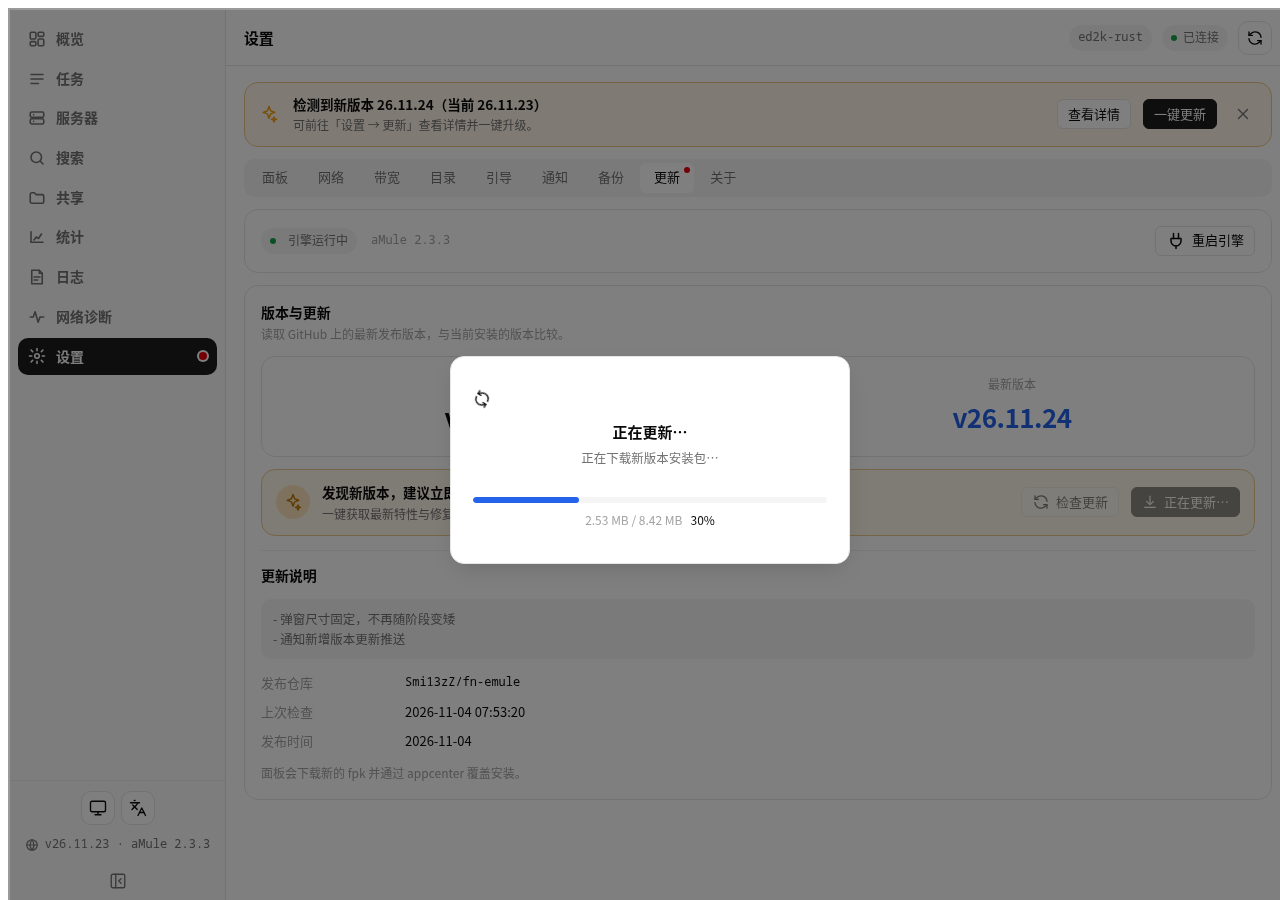
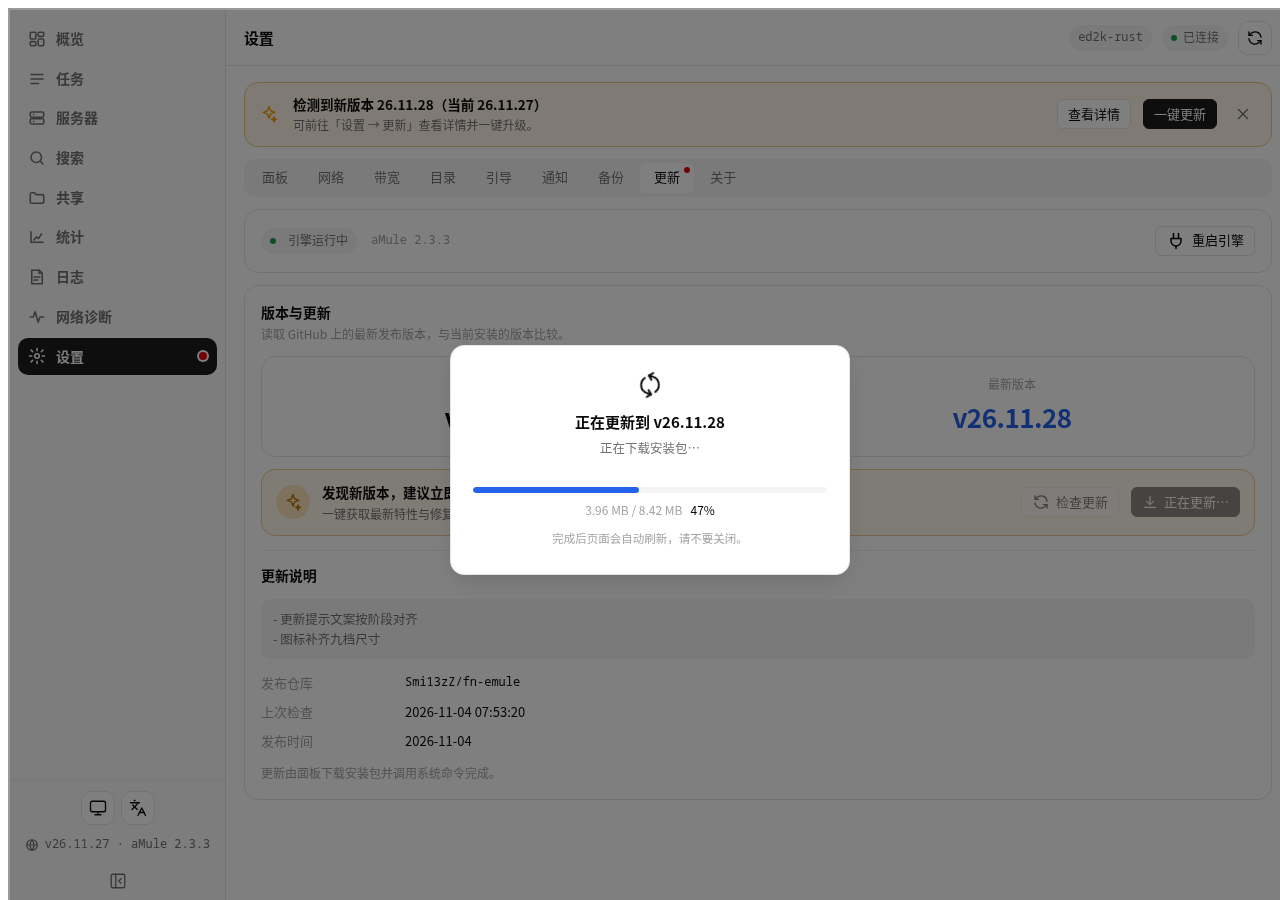
v26.11.27: 更新提示文案按阶段对齐（确认框/目标版本标题/四阶段文案/请勿关闭）

Changed region(s): [[0.3438, 0.3733, 0.6875, 0.6533], [0.2188, 0.84, 0.4062, 0.8711], [0.2188, 0.6844, 0.3438, 0.7156]]

diff --git a/src/emule/app/web/js/i18n.js b/src/emule/app/web/js/i18n.js
@@ -519,20 +519,22 @@
           "settings.update.notChecked": "尚未检查",
           "settings.update.install": "一键更新",
           "settings.update.installing": "正在更新…",
-  "settings.update.installingDownload": "正在下载新版本安装包…",
+  "settings.update.installingDownload": "正在下载安装包…",
   "settings.update.downloaded": "安装包已下载，请到应用中心完成安装",
   "settings.update.downloadedHint": "安装包 {n} 已下载到设备（{p}）。请打开 fnOS「应用中心 → 手动安装」选择该文件完成升级；升级会保留配置与下载进度。",
-  "settings.update.installingWait": "下载完成，等待 fnOS 安装并重启面板（约 1 分钟）…",
+  "settings.update.installingReady": "安装包已就绪，正在重启服务…",
   "settings.update.verifying": "正在校验安装包…",
   "settings.update.timeout": "等待超时，请到 fnOS 应用中心确认安装状态。",
           "settings.update.notes": "更新说明",
           "settings.update.noNotes": "该版本没有填写更新说明",
           "settings.update.release": "查看发布页",
           "settings.update.failed": "检查更新失败：{v}",
-          "settings.update.confirm": "安装 v{v} 并重启面板？",
-          "settings.update.hint": "面板会下载新的 fpk 并通过 appcenter 覆盖安装。",
-          "settings.update.installFailed": "更新失败：{v}",
-          "settings.update.done": "已更新到 v{v}，正在重载页面…",
+          "settings.update.confirm": "将下载 v{v} 并重启面板完成升级，过程中面板会短暂无法访问。继续？",
+          "settings.update.hint": "更新由面板下载安装包并调用系统命令完成。",
+          "settings.update.keepOpen": "完成后页面会自动刷新，请不要关闭。",
+  "settings.update.installingTitle": "正在更新到 v{v}",
+  "settings.update.installFailed": "更新失败：{v}",
+          "settings.update.installingWait": "服务正在重启，等待新版本上线…",
           "settings.about.desc": "eMule 是 fnOS 原生应用：自带 aMule 2.3.3 引擎，面板用 Python 标准库实现，不依赖商店里的其他应用。",
           "settings.about.version": "面板版本",
           "settings.about.engine": "引擎版本",
@@ -1106,20 +1108,22 @@
           "settings.update.notChecked": "Not checked yet",
           "settings.update.install": "Update now",
           "settings.update.installing": "Updating…",
-  "settings.update.installingDownload": "Downloading the new package…",
+  "settings.update.installingDownload": "Downloading the package…",
   "settings.update.downloaded": "Package downloaded - finish in App Center",
   "settings.update.downloadedHint": "Package {n} has been downloaded to the device ({p}). Open fnOS App Center → Manual install and choose it to finish the upgrade - settings and downloads are kept.",
-  "settings.update.installingWait": "Downloaded - waiting for fnOS to install and restart the panel (about a minute)…",
+  "settings.update.installingReady": "Package ready, restarting the service…",
   "settings.update.verifying": "Verifying the package…",
   "settings.update.timeout": "Timed out - check the install state in the fnOS App Center.",
           "settings.update.notes": "Release notes",
           "settings.update.noNotes": "This release has no notes",
           "settings.update.release": "Release page",
           "settings.update.failed": "Update check failed: {v}",
-          "settings.update.confirm": "Install v{v} and restart the panel?",
-          "settings.update.hint": "The panel downloads the new fpk and installs it through appcenter.",
-          "settings.update.installFailed": "Update failed: {v}",
-          "settings.update.done": "Updated to v{v}, reloading…",
+          "settings.update.confirm": "Download v{v} and restart the panel to upgrade? The panel will be briefly unreachable.",
+          "settings.update.hint": "The panel downloads the package and runs the system installer.",
+          "settings.update.keepOpen": "The page reloads automatically when it is done — keep it open.",
+  "settings.update.installingTitle": "Updating to v{v}",
+  "settings.update.installFailed": "Update failed: {v}",
+          "settings.update.installingWait": "The service is restarting, waiting for the new build…",
           "settings.about.desc": "eMule is a native fnOS application: it ships the aMule 2.3.3 engine and implements the panel with the Python standard library only.",
           "settings.about.version": "Panel version",
           "settings.about.engine": "Engine version",

diff --git a/src/emule/app/web/style.css b/src/emule/app/web/style.css
@@ -673,20 +673,24 @@ input[type="number"] { -moz-appearance: textfield; }
      用 min() 让宽度跟随内容会让弹窗忽大忽小。 */
   width: min(400px, 100%); min-height: 208px;
   padding: 26px 22px; text-align: center;
-  display: flex; flex-direction: column; justify-content: center;
+  /* align-items:center 不能省：改成 flex 列之后，子项默认 stretch，
+     旋转图标会被拉成整行宽、靠左摆放。 */
+  display: flex; flex-direction: column; justify-content: center; align-items: center;
   background: var(--bg); border: 1px solid var(--border);
   border-radius: var(--radius-lg); box-shadow: var(--shadow-pop);
 }
-.upspin { display: inline-flex; color: var(--text); }
-.upspin svg { animation: spin360 1s linear infinite; }
-.uptitle { font-size: 15px; font-weight: 600; margin: 12px 0 6px; }
+.upspin { flex: 0 0 auto; width: 26px; height: 26px; display: flex; color: var(--text); }
+.upspin svg { width: 26px; height: 26px; animation: spin360 1s linear infinite; }
+.uptitle { font-size: 15px; font-weight: 600; margin: 12px 0 6px; text-align: center; }
 .upstage {
-  font-size: 12.5px; color: var(--dim); overflow-wrap: anywhere;
+  font-size: 12.5px; color: var(--dim); overflow-wrap: anywhere; text-align: center;
   /* 阶段文字换行数不同（"正在校验安装包…" vs "下载完成，等待 fnOS…"），
      预留两行高度，避免切换阶段时整块上下跳。 */
   min-height: 34px; line-height: 17px;
 }
-.upbar { margin-top: 14px; height: 6px; }
+/* align-items:center 会让子项按内容宽度收缩，进度条必须显式拉满，
+   否则宽度塌成 0，看起来就是"进度条不见了"。 */
+.upbar { margin-top: 14px; height: 6px; width: 100%; flex: 0 0 auto; align-self: stretch; }
 .upmeta {
   display: flex; align-items: center; justify-content: center; gap: 8px;
   margin-top: 8px; font-size: 12px; color: var(--faint);
@@ -694,6 +698,11 @@ input[type="number"] { -moz-appearance: textfield; }
   min-height: 17px;
 }
 .upmeta .uppct { color: var(--text); font-weight: 500; }
+.upkeep {
+  margin-top: 10px; font-size: 11.5px; color: var(--faint);
+  /* 固定占位：失败时这行会换文案，避免弹窗高度跳 */
+  min-height: 16px;
+}
 
 /* ---------------- toasts / log ---------------- */
 .toasts { position: fixed; right: 16px; bottom: 16px; z-index: 90; display: flex; flex-direction: column; gap: 8px; }

diff --git a/src/emule/app/web/js/app.js b/src/emule/app/web/js/app.js
@@ -214,6 +214,8 @@
         updateBanner: true,
         /* 一键更新的下载进度（后台任务轮询回来的） */
         updateProgress: { percent: 0, phase: "idle", received: 0, total: 0 },
+        /* 正在更新到的目标版本号，用于弹窗标题 */
+        updateTargetVersion: "",
         installTimer: null,
 
         addOpen: false,
@@ -1699,7 +1701,7 @@
         const self = this;
         const v = (this.updateInfo && this.updateInfo.latest) || "";
         this.confirmBox = {
-          title: this.t("settings.update.install"),
+          title: this.t("settings.update.installingTitle", { v: v }),
           text: this.t("settings.update.confirm", { v: v }),
           okText: this.t("settings.update.install"),
           onOk: async function () {
@@ -1717,6 +1719,7 @@
         this.updateDownloaded = null;
         this.updateProgress = { percent: 0, phase: "downloading", received: 0, total: 0 };
         this.updateInstallDetail = this.t("settings.update.installingDownload");
+        this.updateTargetVersion = (this.updateInfo && this.updateInfo.latest) || "";
         this._updateFromVersion = this.appVersion;
         try {
           const r = await window.EMU_API.installUpdate();
@@ -1741,11 +1744,14 @@
           total: Number(task.total) || 0,
         };
         const pct = this.updateProgress.percent;
+        /* 四个阶段的文案与 qbpanel 对齐 */
         if (task.phase === "downloading") {
-          this.updateInstallDetail = this.t("settings.update.installingDownload") + " " + pct + "%";
+          this.updateInstallDetail = this.t("settings.update.installingDownload");
         } else if (task.phase === "verifying") {
           this.updateInstallDetail = this.t("settings.update.verifying");
-        } else if (task.phase === "installing" || task.phase === "restarting") {
+        } else if (task.phase === "installing") {
+          this.updateInstallDetail = this.t("settings.update.installingReady");
+        } else if (task.phase === "restarting") {
           this.updateInstallDetail = this.t("settings.update.installingWait");
         }
       },

diff --git a/src/emule/app/web/index.html b/src/emule/app/web/index.html
@@ -1506,7 +1506,7 @@
 <div class="upoverlay" v-if="updateInstalling">
   <div class="upoverlay-box">
     <span class="upspin" v-html="ic('refresh')"></span>
-    <div class="uptitle">{{ t('settings.update.installing') }}</div>
+    <div class="uptitle">{{ updateTargetVersion ? t('settings.update.installingTitle', { v: updateTargetVersion }) : t('settings.update.installing') }}</div>
     <div class="upstage">{{ updateInstallDetail || t('settings.update.hint') }}</div>
     <div class="progress upbar"><i :style="{ width: Math.max(2, updateProgress.percent) + '%' }"></i></div>
     <!-- 这一行必须常驻：下载完进入校验/安装阶段时若把它 v-if 掉，
@@ -1518,6 +1518,7 @@
       <template v-else>&nbsp;</template>
       <span class="uppct">{{ updateProgress.percent }}%</span>
     </div>
+    <div class="upkeep">{{ t('settings.update.keepOpen') }}</div>
   </div>
 </div>
 

diff --git a/CHANGELOG.md b/CHANGELOG.md
@@ -1,5 +1,23 @@
 # 更新日志
 
+## 26.11.27
+
+- 更新提示文案按阶段对齐：确认框改为「将下载 v某某 并重启面板完成升级，过程中面板会短暂无法访问。继续？」；
+  进度弹窗标题显示「正在更新到 v某某」，正文按「正在下载安装包… → 正在校验安装包… →
+  安装包已就绪，正在重启服务… → 服务正在重启，等待新版本上线…」四个阶段切换，
+  底部补充「完成后页面会自动刷新，请不要关闭。」
+
+## 26.11.26
+
+- 修复更新弹窗进度条不显示：容器改成居中布局后，进度条被按内容宽度收缩成 0，
+  现在显式拉满宽度。
+
+## 26.11.25
+
+- **修复更新弹窗的旋转图标跑到左边、还变小了**：上一版为了固定弹窗尺寸把容器改成 flex 列布局，
+  漏了 `align-items: center`，图标被拉伸成整行宽并靠左；图标本身也没有显式尺寸，
+  在 flex 里按内容缩放。现在已居中并固定为 26×26。
+
 ## 26.11.24
 
 - **修复应用中心不显示图标**：`ui/images` 里只提供了 64、256 两个尺寸，
